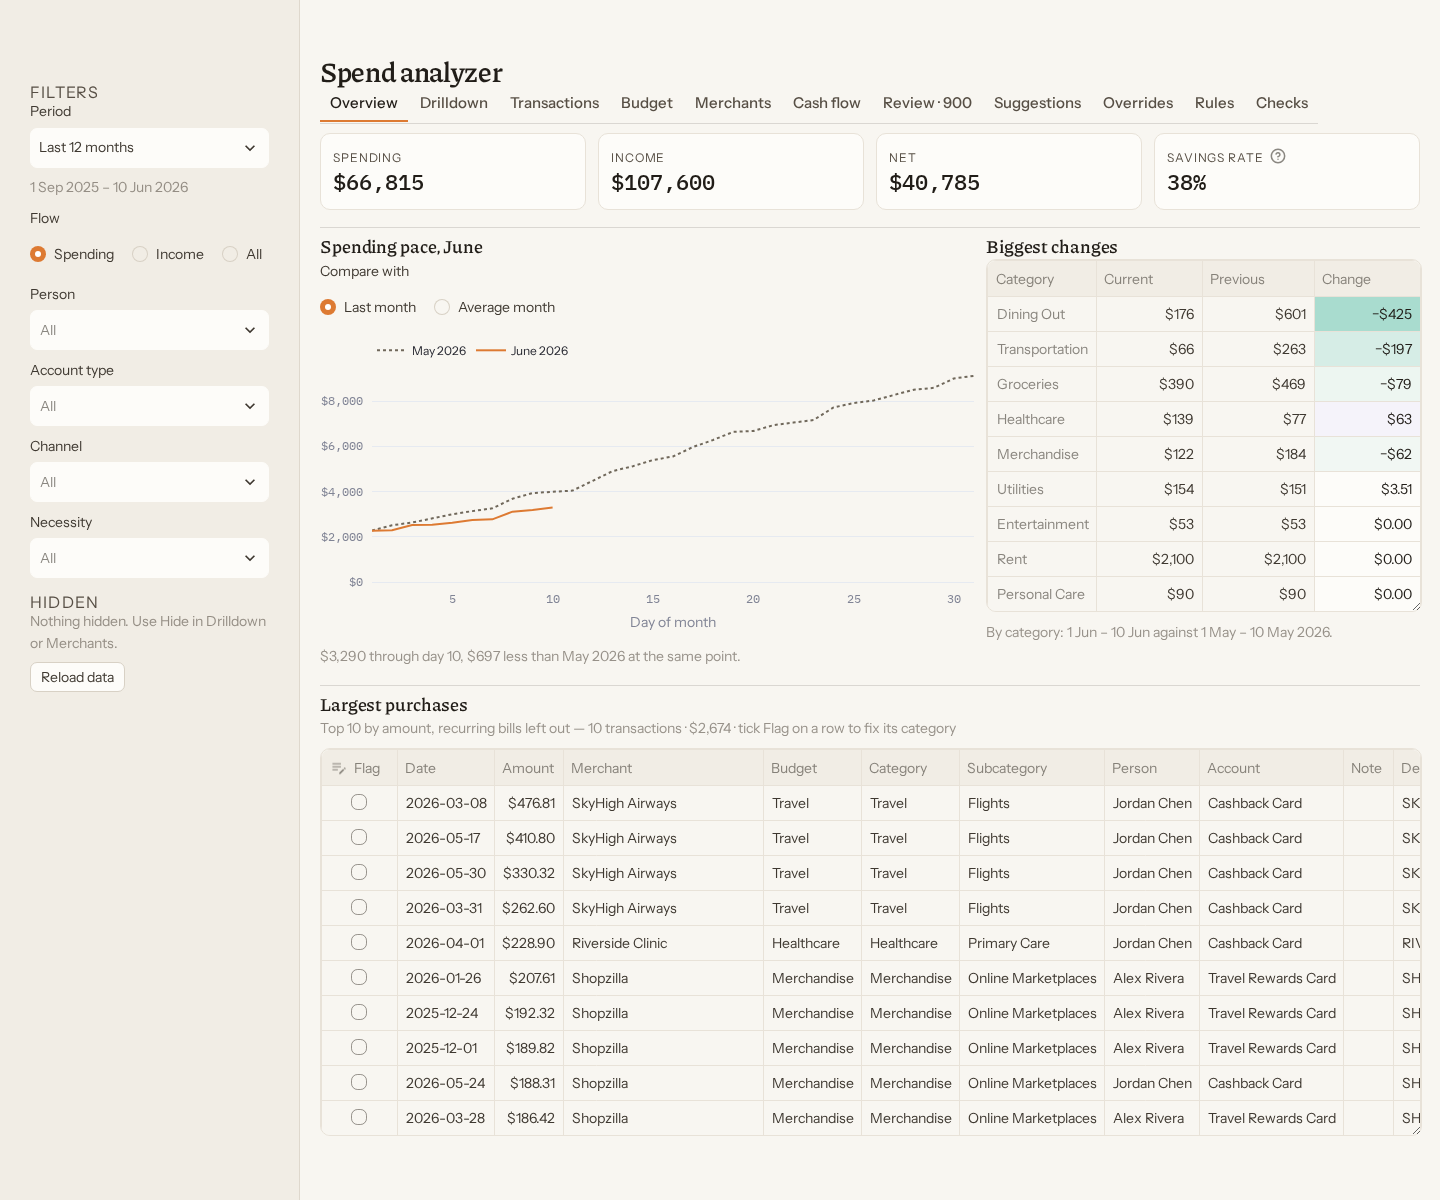
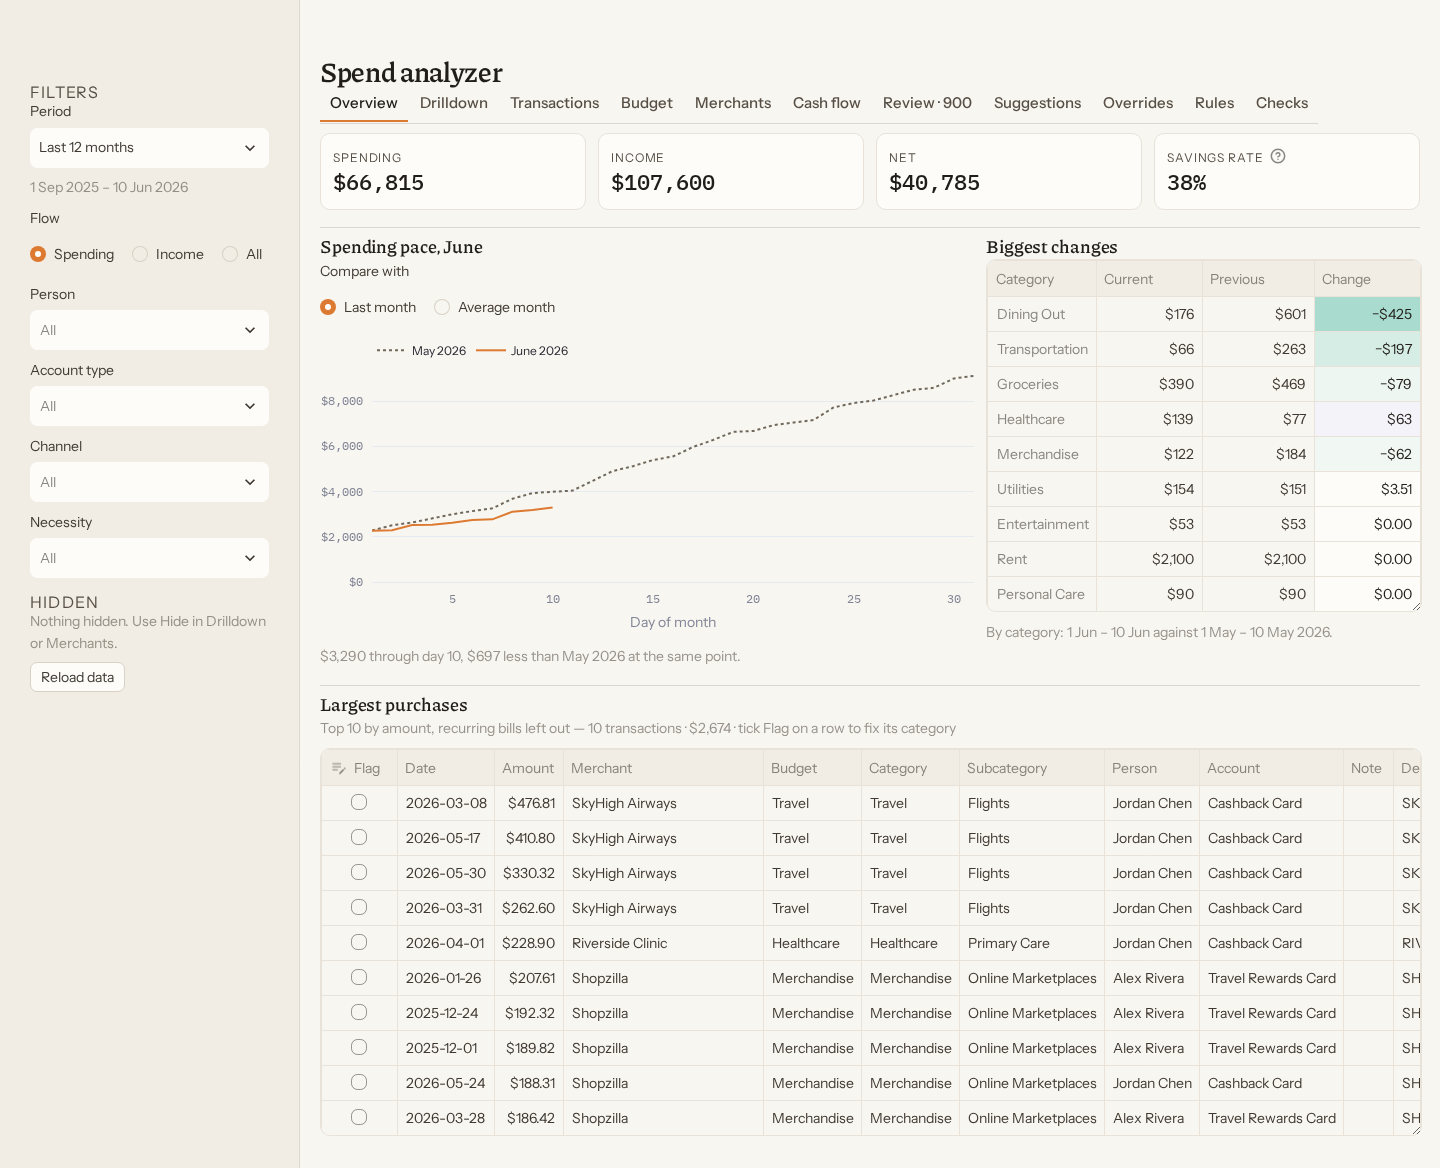
Screenshot eight analyzer views for the README, including the drilldown wheel
tools/screenshots.py adds Drilldown, Cash flow, Review, Rules and Checks with
per-view clips. It waits on the sunburst inside its component iframe, matches a
view label that carries a pending count, and re-measures each page from a fixed
viewport so a tall view no longer pads the shots after it.

Claude-Session: https://claude.ai/code/session_01CuN6WwxuSSDywsQhMsyLhZ

diff --git a/spend_analyzer/tools/screenshots.py b/spend_analyzer/tools/screenshots.py
@@ -8,7 +8,7 @@ PNG per view. Refuses to run if it cannot create its own temp root.
 Usage:
     python -m tools.screenshots [--out DIR]
 
-Default --out is <repo>/docs/img (overview.png, budget.png, merchants.png).
+Default --out is <repo>/docs/img, one PNG per entry in _VIEWS.
 """
 from __future__ import annotations
 
@@ -59,7 +59,8 @@ _READY_JS = """
     const aria = group.querySelector('[role="radio"][aria-checked="true"]');
     selected = aria ? aria.innerText : '';
   }
-  selected = selected.replace(/\\s+/g, ' ').trim();
+  // A view with pending work is labelled "Review · 900"; match the name only.
+  selected = selected.replace(/\\s+/g, ' ').trim().split(' · ')[0];
   if (selected !== spec.view) return fail('view:' + selected);
 
   // innerText applies CSS text-transform, so metric labels arrive uppercase.
@@ -91,6 +92,17 @@ _READY_JS = """
   if (painted.length < spec.frames) {
     return fail('frames:' + painted.length + '/' + frames.length);
   }
+
+  // The drilldown hierarchy is drawn by streamlit-plotly-events inside a
+  // same-origin component iframe, out of reach of the stPlotlyChart check above.
+  if (spec.iframe_chart) {
+    const drawn = Array.from(document.querySelectorAll('iframe')).some(frame => {
+      try {
+        return !!frame.contentDocument.querySelector('.sunburstlayer path, .treemaplayer path');
+      } catch (e) { return false; }
+    });
+    if (!drawn) return fail('iframe-chart');
+  }
   window.__shot = 'ok';
   return true;
 }
@@ -115,6 +127,15 @@ _VIEWS = [
         "frames": 2,
     },
     {
+        "view": "Drilldown",
+        "file": "drilldown.png",
+        "text": ["Spend by Category", "Hierarchy"],
+        "charts": 0,
+        "frames": 1,
+        "iframe_chart": True,
+        "clip": (0, 1520),
+    },
+    {
         "view": "Budget",
         "file": "budget.png",
         "text": ["Budget vs actual", "Trends"],
@@ -128,6 +149,38 @@ _VIEWS = [
         "charts": 0,
         "frames": 1,
         "merchant": _MERCHANT,
+    },
+    {
+        "view": "Cash flow",
+        "file": "cashflow.png",
+        "text": ["Total income", "Net savings"],
+        "charts": 1,
+        "frames": 1,
+        "clip": (0, 1100),
+    },
+    {
+        "view": "Review",
+        "file": "review.png",
+        "text": ["sign off"],
+        "charts": 0,
+        "frames": 2,
+        "clip": (0, 1100),
+    },
+    {
+        "view": "Rules",
+        "file": "rules.png",
+        "text": ["Transformer pattern rules"],
+        "charts": 0,
+        "frames": 1,
+        "clip": (0, 1000),
+    },
+    {
+        "view": "Checks",
+        "file": "checks.png",
+        "text": ["Pipeline health", "Totals tie-out"],
+        "charts": 0,
+        "frames": 1,
+        "clip": (0, 1000),
     },
 ]
 
@@ -264,6 +317,9 @@ def _dump(page) -> None:
 
 def _fit(page) -> None:
     """Match the viewport to the rendered page so the shot is not clipped."""
+    # scrollHeight never reports less than the viewport, so measure from the
+    # floor or a tall view would pad every shorter one shot after it.
+    page.set_viewport_size({"width": WIDTH, "height": 900})
     height = int(page.evaluate(_HEIGHT_JS))
     height = max(900, min(height, 3600))
     if page.viewport_size and page.viewport_size.get("height") == height:
@@ -297,7 +353,11 @@ def _shoot(page, base_url: str, spec: dict, dest: Path) -> None:
       const cap = new Promise(resolve => setTimeout(resolve, 4000));
       return Promise.race([fonts, cap]);
     }""")
-    page.screenshot(path=str(dest), animations="disabled", caret="hide")
+    clip = None
+    if spec.get("clip"):
+        top, bottom = spec["clip"]
+        clip = {"x": 0, "y": top, "width": WIDTH, "height": bottom - top}
+    page.screenshot(path=str(dest), animations="disabled", caret="hide", clip=clip)
 
 
 def _png_size(path: Path) -> tuple[int, int]:

diff --git a/README.md b/README.md
@@ -75,24 +75,30 @@ flowchart LR
 
 ## Screenshots
 
-> Every figure below is **synthetic demo data** — invented people, banks, and merchants
-> generated by
-> [`spend_analyzer/tools/gen_demo_data.py`](spend_analyzer/tools/gen_demo_data.py). No real
-> financial data appears anywhere in this repo. To reproduce them locally:
-> `python -m tools.gen_demo_data --out /tmp/demo` then run the UI with
-> `SPEND_VISUALIZER_DATA=/tmp/demo`.
+Every figure is **synthetic demo data**: invented people, banks and merchants from
+[`spend_analyzer/tools/gen_demo_data.py`](spend_analyzer/tools/gen_demo_data.py). No real
+financial data appears anywhere in this repo.
+[`spend_analyzer/tools/screenshots.py`](spend_analyzer/tools/screenshots.py) regenerates every
+image below from that data.
 
-**Overview** — faceted category table, headline KPIs, and a necessity → category sunburst:
-
-![Spending overview](docs/img/overview.png)
-
-**Budget vs. actual** — monthly goals against trailing averages, with a per-category trend:
-
-![Budget vs actual](docs/img/budget.png)
-
-**Merchants & recurring** — top merchants, per-merchant history, and transaction-level detail:
-
-![Merchants and recurring](docs/img/merchants.png)
+<table>
+  <tr>
+    <td width="50%" valign="top"><img src="docs/img/overview.png" alt="Overview"><br><b>Overview.</b> Spending, income, net and savings rate for the period, this month's pace against last month, and the categories that moved most.</td>
+    <td width="50%" valign="top"><img src="docs/img/drilldown.png" alt="Drilldown"><br><b>Drilldown.</b> Spend by necessity, category, subcategory or merchant, and a hierarchy wheel (or treemap) that zooms on click and filters the transactions below it.</td>
+  </tr>
+  <tr>
+    <td width="50%" valign="top"><img src="docs/img/budget.png" alt="Budget"><br><b>Budget.</b> Each category against its monthly goal as a year-to-date and trailing three-month average, over a stacked monthly trend.</td>
+    <td width="50%" valign="top"><img src="docs/img/cashflow.png" alt="Cash flow"><br><b>Cash flow.</b> Monthly income against spending, with net, savings rate and a cumulative running total.</td>
+  </tr>
+  <tr>
+    <td width="50%" valign="top"><img src="docs/img/merchants.png" alt="Merchants"><br><b>Merchants.</b> The largest merchants, one merchant's monthly history and transactions, and recurring charges detected from history with each one's next expected date.</td>
+    <td width="50%" valign="top"><img src="docs/img/review.png" alt="Review"><br><b>Review.</b> The sign-off queue: rows grouped by budget category, corrected in place and signed off a group at a time. A correction appends an intent to a log; it never edits the store.</td>
+  </tr>
+  <tr>
+    <td width="50%" valign="top"><img src="docs/img/rules.png" alt="Rules"><br><b>Rules.</b> The categorizer's pattern rules: each rule's match, target category, and whether it overwrites (<code>auto</code>) or only flags, with live match counts.</td>
+    <td width="50%" valign="top"><img src="docs/img/checks.png" alt="Checks"><br><b>Checks.</b> Pipeline health over the loaded archive: excluded rows, taxonomy coverage, and a tie-out showing every grouping sums to the same total, so nothing is double counted.</td>
+  </tr>
+</table>
 
 ## How this was built
 
